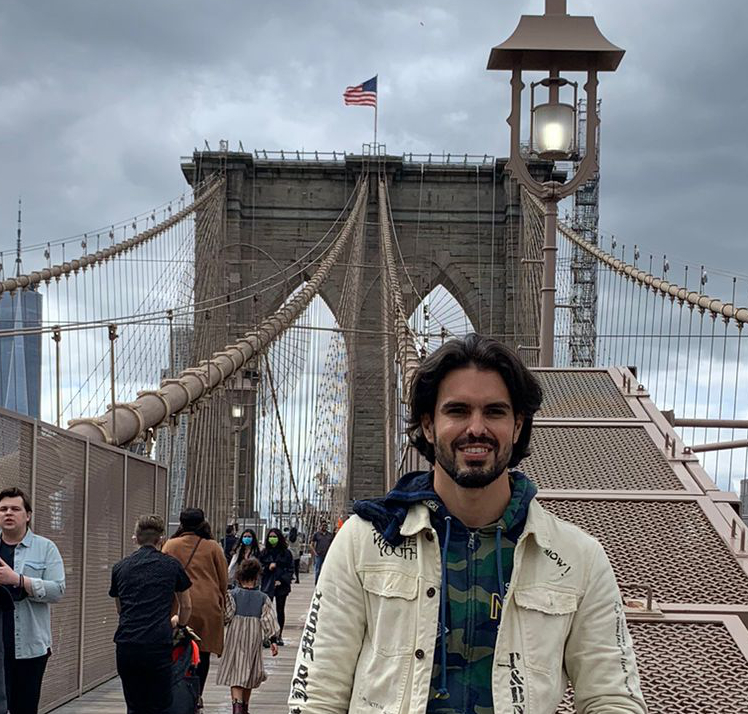
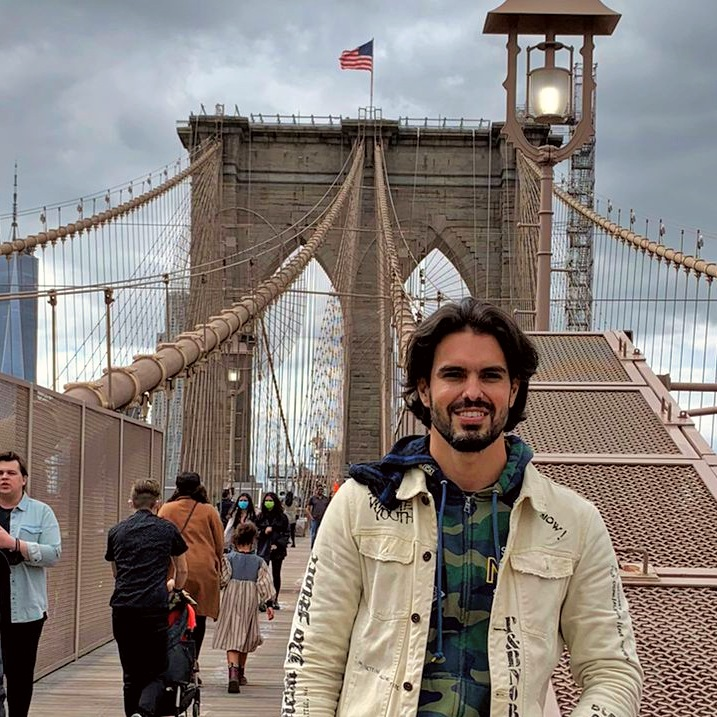
Changed home page styling

diff --git a/src/App.js b/src/App.js
@@ -1,4 +1,4 @@
-import React from 'react';
+import React, { useState } from 'react';
 import {Route, Link, Switch} from "react-router-dom";
 import './App.css';
 import About from "./components/About";
@@ -6,17 +6,32 @@ import Projects from "./components/Projects";
 import Home from "./components/Home";
 
 function App() {
-  return (
+    const [h1Position, setH1position] = useState({ 
+        position: "initial"
+});
+    const moveH1 = () => {
+        if (h1Position.position === "initial") {
+            return setH1position({position: "right"})
+        } else if (h1Position.position === "left") {
+            return setH1position({position: "right"})
+        } else {
+            return setH1position({position: "left"})
+        }
+    }
+    return (
         <div className="App">
             <div className="App-body">
-                <header className="header">
-                    
+                <header className="header"> 
                     <div className="header-nav">
                         <Link to="/">Home</Link>
                         <Link to= "/projects">Projects</Link>
                         <Link to="/about">About Me</Link>
                     </div>
-                    <h1>Rodolfo Jaspe</h1>
+                    <div className="h1-div">
+                        <div onMouseEnter={moveH1} className={h1Position.position}>
+                            <h1>Rodolfo Jaspe</h1>
+                        </div>
+                    </div>
                 </header>
                 <main>
                     <Switch>
@@ -27,7 +42,7 @@ function App() {
                 </main>
             </div>
         </div>
-  );
+    );
 }
 
 export default App;

diff --git a/src/App.css b/src/App.css
@@ -2,18 +2,12 @@
   text-align: center;
   background: url("./Assets/background.jpg");
   background-size: cover;
-}
-
-h1 {
-  display: flex;
-  align-items: center;
-  text-align: left;
-  padding-left: 5vw;
-  background: rgba(128, 128, 128, 0.5);
-  height: 10vh;
+  margin-left: 0;
+  /* background-color: red; */
 }
 
 .App-body {
+  padding-top: 5vh;
   background-color: rgba(13, 16, 17, 0.9);
   min-height: 100vh;
   display: flex;
@@ -21,7 +15,7 @@ h1 {
   flex-direction: column;
   align-items: center;
   font-size: calc(10px + 2vmin);
-  color: white;
+  color: rgba(255, 255, 255, 0.8);
 }
 
 .header-nav {
@@ -31,11 +25,37 @@ h1 {
 }
 
 a {
-  color: gray;
+  color: rgba(255, 255, 255, 0.2);
   text-decoration: none;
 }
 
 a:hover {
-  color: gray;
+  color: rgba(255, 255, 255, 0.5);
   text-decoration: none;
+}
+
+.h1-div {
+  background: rgba(128, 128, 128, 0.5);
+  width: 100vw;
+  display: flex;
+  align-items: center;
+  padding-left: 5vw;
+  padding-top: 1vh;
+  padding-bottom: 1vh;
+  height: 10vh;
+  margin: 5vh;
+  color: rgba(0, 0, 0, 0.3);
+}
+
+.right {
+  position: absolute;
+  transform: translateX(63vw);
+  transition: 2s;
+  color: rgba(255, 255, 255, 0.3);
+}
+
+.left {
+  position: absolute;
+  transform: translateX(5vw);
+  transition: 2s;
 }

diff --git a/src/components/Home.css b/src/components/Home.css
@@ -1,19 +1,20 @@
 img {
-  width: 20vw;
-  height: 20vw;
+  width: 25vw;
+  height: 25vw;
   border-radius: 25vw;
   object-fit: cover;
   object-position: top;
-  border: 2px solid black;
+  border: 4vw solid rgba(0, 0, 0, 0.1);
   margin: 5vh;
+  transition: 1s;
 }
 
 .home {
   width: 100vw;
   display: flex;
-  flex-direction: row;
-  justify-content: space-evenly;
-  align-items: center;
+  flex-direction: column;
+  align-items: space-evenly;
+  padding-bottom: 5vh;
   /* background: red; */
 }
 
@@ -27,6 +28,7 @@ img {
 }
 
 .home-projects iframe {
+  transition: 1.5s;
   width: 10vw;
   height: 10vw;
   border-radius: 5vw;
@@ -34,12 +36,28 @@ img {
 }
 
 .home-projects iframe:hover {
-  transform: scale(4);
-  transition: 2s;
+  transform: scale(3);
+  transition: 1.5s;
   border-radius: 1vw;
   border: none;
+  -webkit-transform-origin-x: 11vw;
+  -webkit-transform-origin-y: 16vh;
 }
+
 img:hover {
   transform: scale(1.1);
   transition: 0.5s;
+  border: 2vw solid rgba(0, 0, 0, 0.1);
+}
+
+.img-div {
+  padding: 0.2vw;
+  background: rgba(0, 0, 0, 0.1);
+  border-radius: 20vw;
+}
+.img-and-app-row {
+  display: flex;
+  flex-direction: row;
+  justify-content: space-evenly;
+  /* background: red; */
 }

diff --git a/src/components/Home.js b/src/components/Home.js
@@ -3,13 +3,15 @@ import bridge from "../Assets/bridge.jpg";
 import "./Home.css"
 
 function Home () {
+
     return (
         <div className="home">
-            <div>
-                <img src= {bridge} alt="bridge" />
-            </div>
-            <div>
-                <div className="home-projects">
+            <div className="img-and-app-row">
+                <div className="img-div">
+                    <img src= {bridge} alt="bridge" />
+                </div>
+                <div>
+                    <div className="home-projects">
                     <h3>
                         <a href="https://hilites.netlify.app/">HiLites App</a>
                     </h3>
@@ -19,9 +21,9 @@ function Home () {
                     <h3><a href="https://toodue.netlify.app/">TooDue App</a></h3>
                     <iframe src ="https://toodue.netlify.app/" title="latest soccer highlights"></iframe>         
                 </div>
-            </div>
-            
-        
+                </div>
+                
+            </div>      
         </div>
     )
 }

diff --git a/src/components/Projects.css b/src/components/Projects.css
@@ -15,6 +15,7 @@
 h2 {
   text-align: left;
   margin-left: 2vw;
+  color: rgba(255, 255, 255, 0.7);
 }
 
 h3 {
